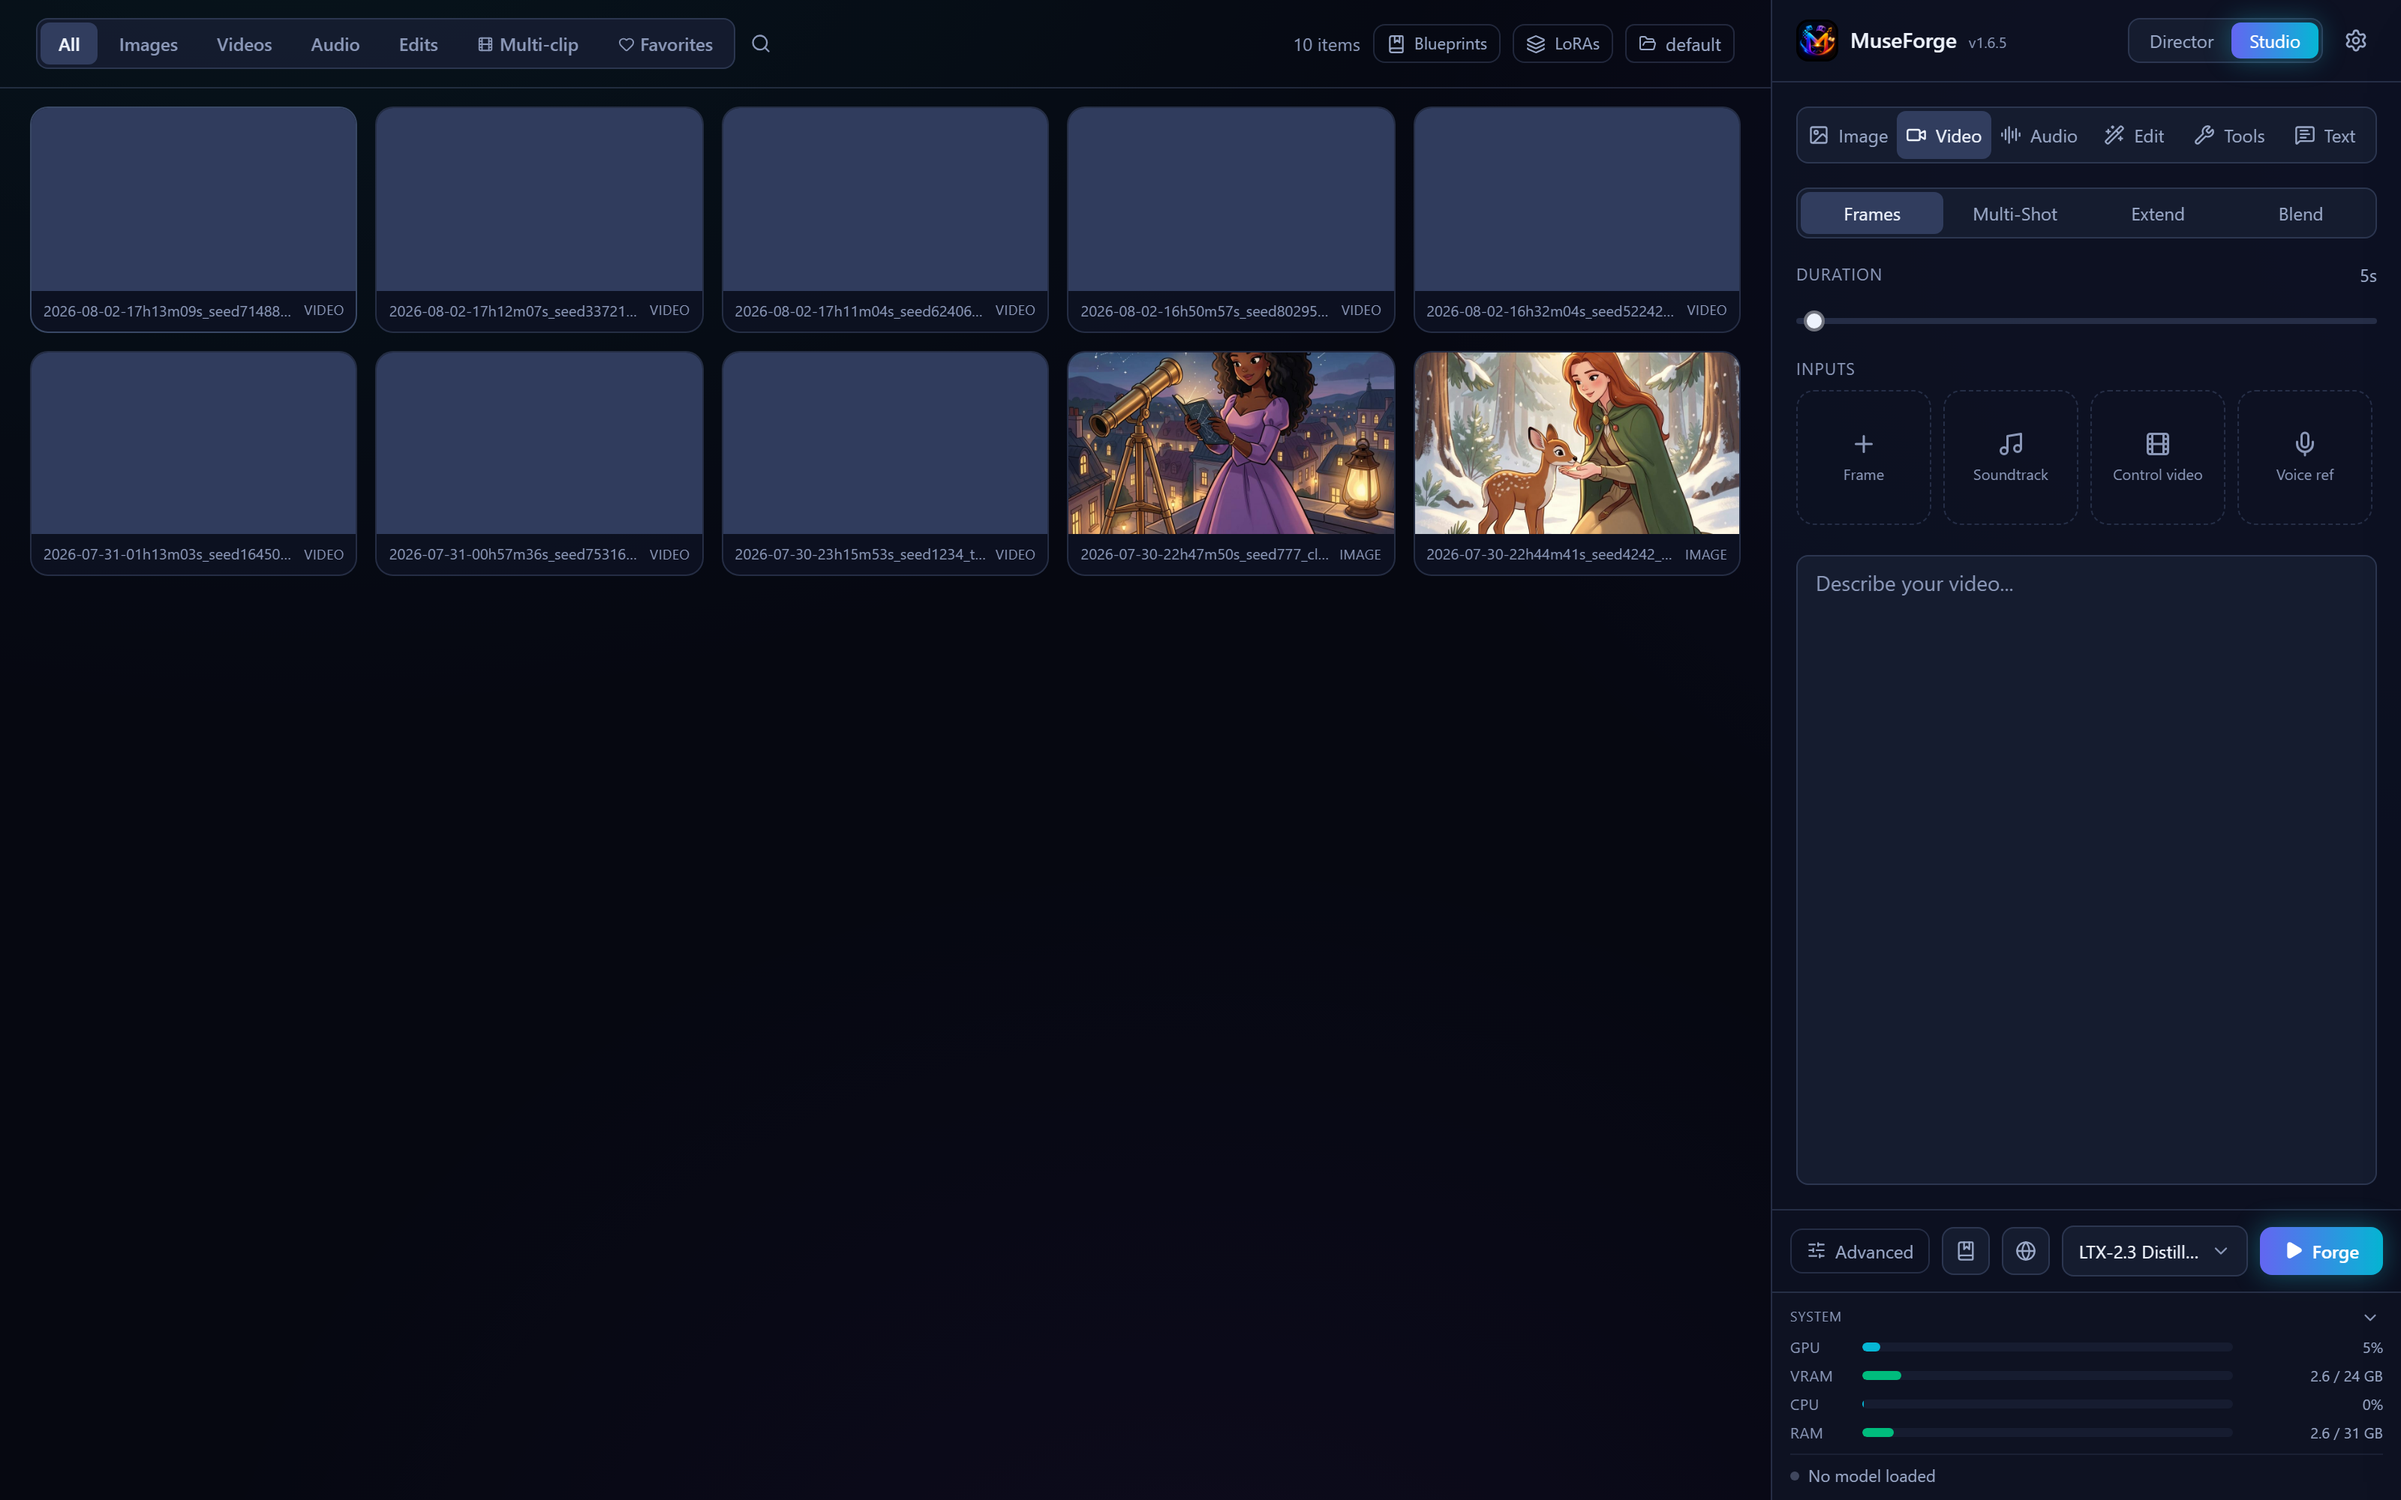
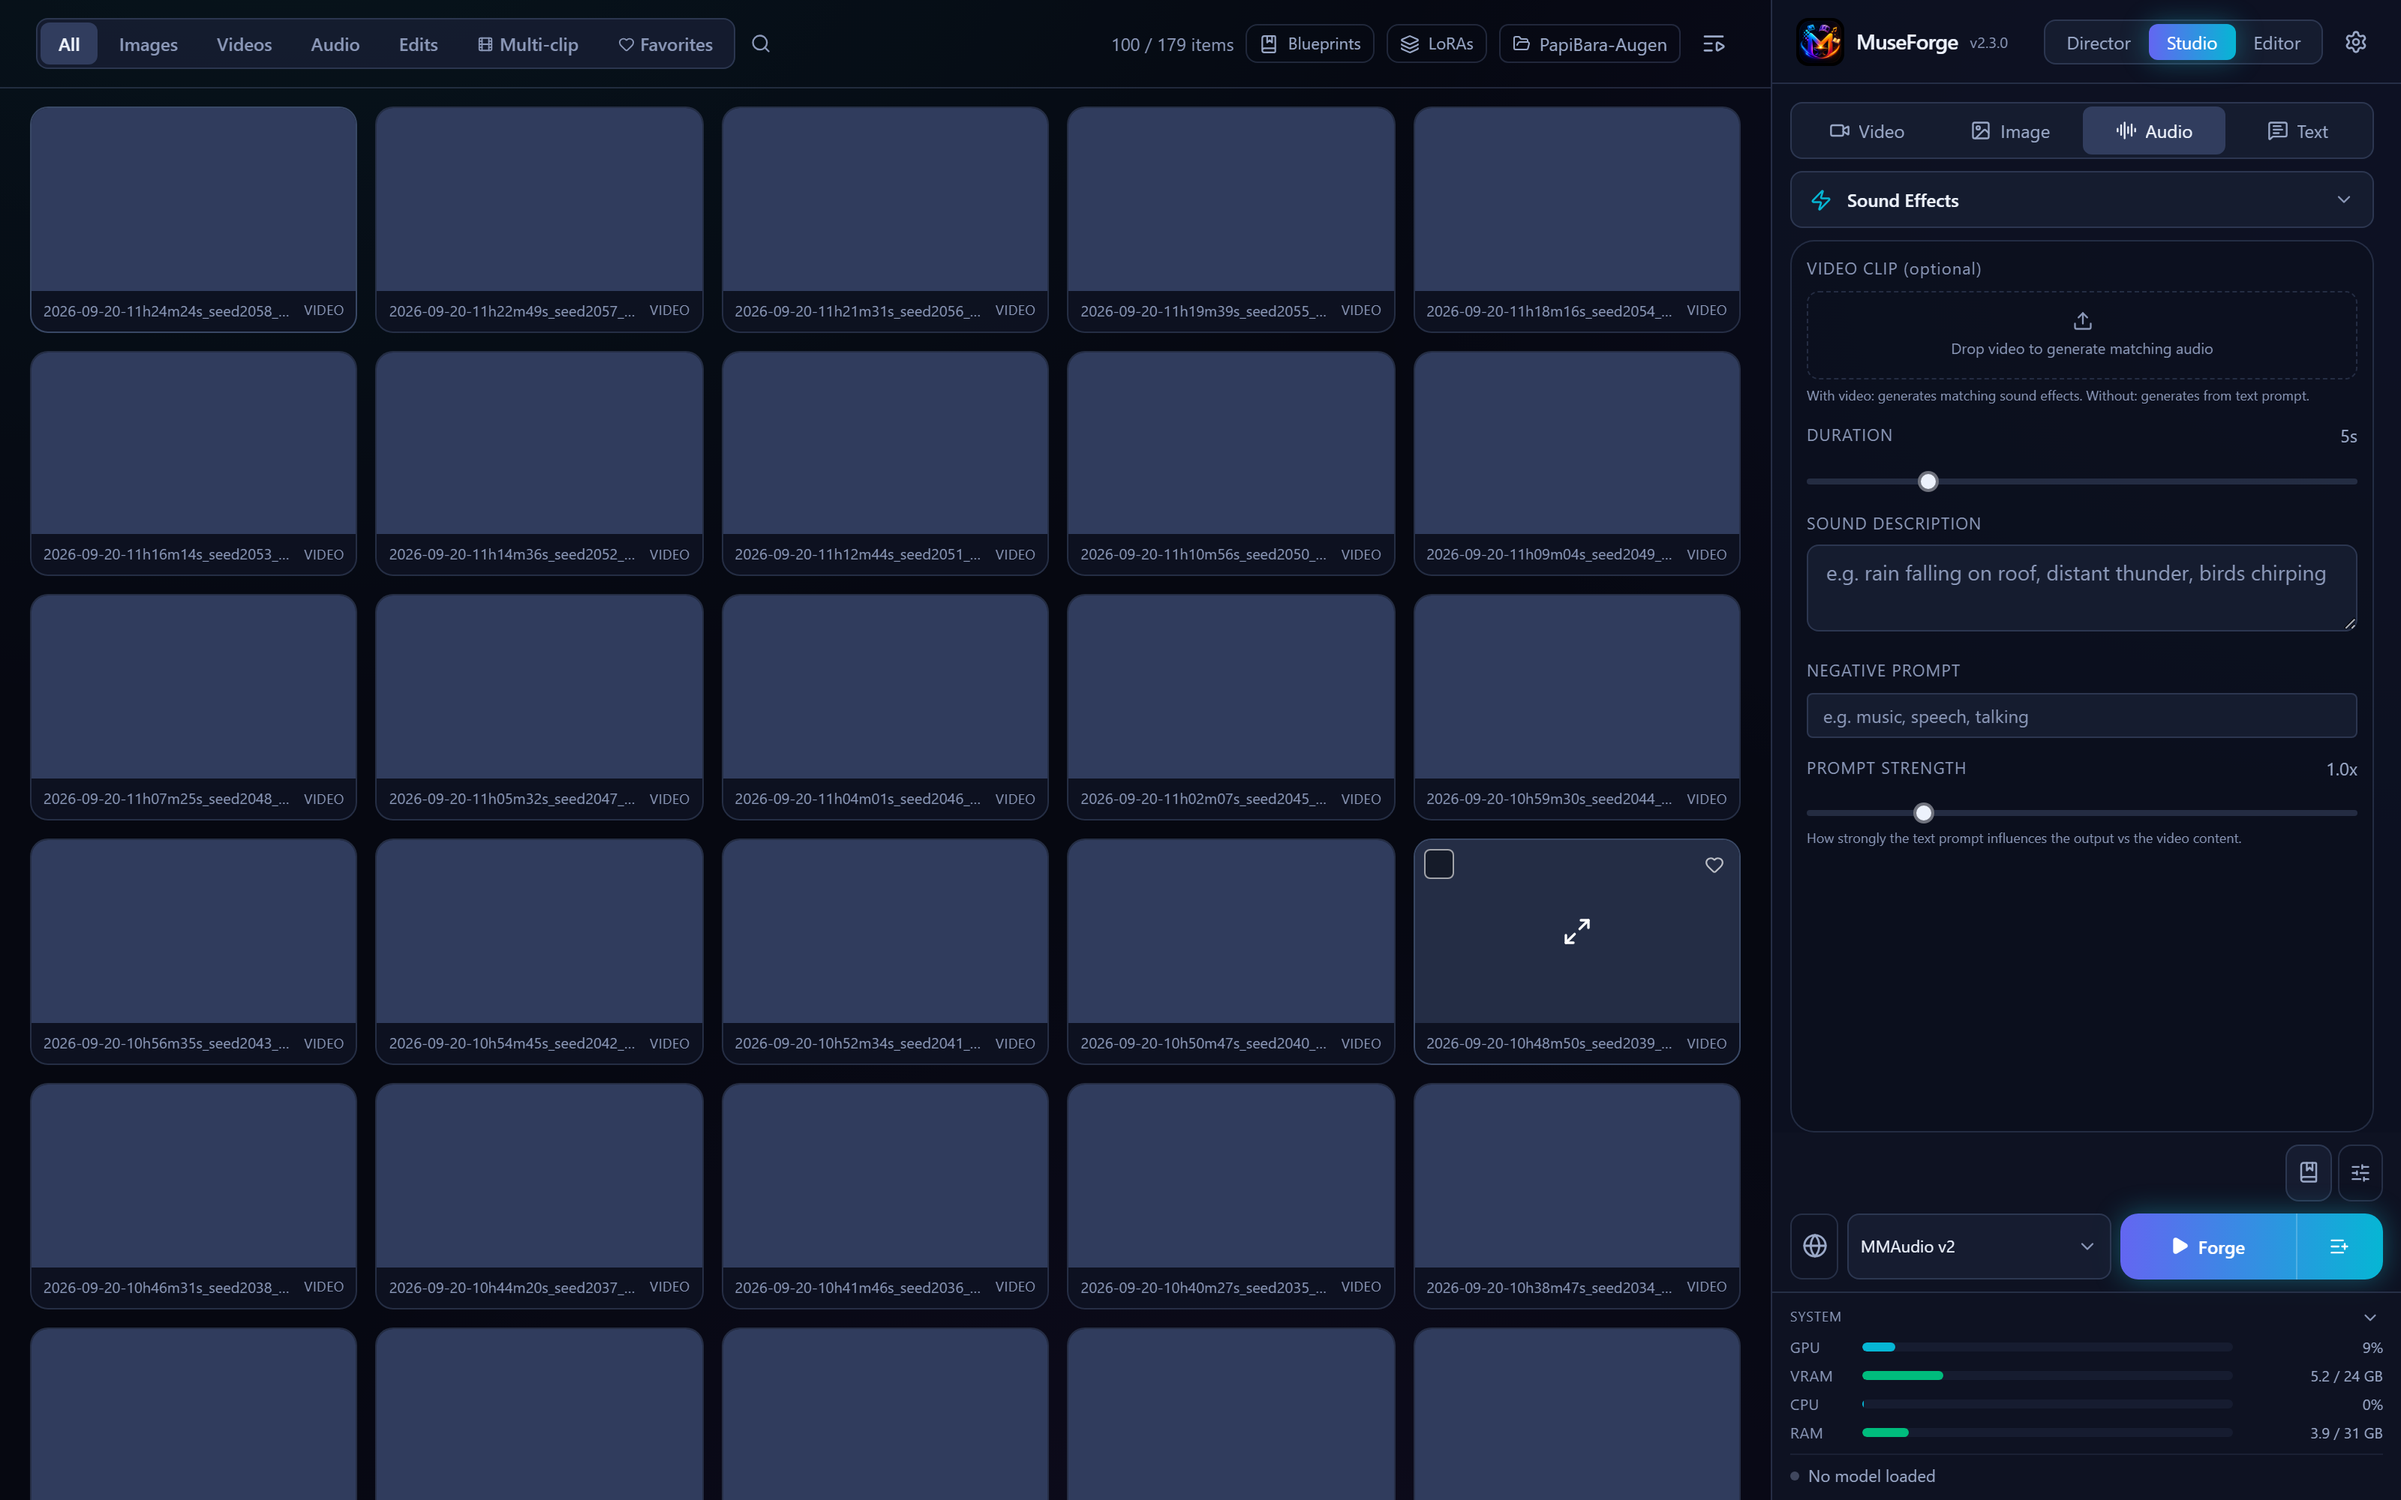
Show the brand once, from one component
The sidebar header rendered it twice: upstream's brand component, then
our own copy of icon plus name plus version right beside it. Two more
copies of that same markup sat in App.tsx and the mobile header.

Pointing the shared component at our icon and deleting the three
hand-rolled copies fixes the duplicate and the Editor panels in one go —
they render the same component, so they were showing upstream's artwork.
The component keeps its upstream name: four files import it, and renaming
an identifier only buys a conflict in each of them at the next merge.

Verified in a screenshot of the running app: one logo, one name, one
version.

diff --git a/ui/src/components/Sidebar/Sidebar.tsx b/ui/src/components/Sidebar/Sidebar.tsx
@@ -54,7 +54,6 @@ function inputRevealBounds(input: HTMLElement) {
 }
 
 export function Sidebar() {
-  const appVersion = useStore(s => s.systemConfig?.app_version)
   const toggleSettings = useStore(s => s.toggleSettings)
   const generationMode = useStore(s => s.generationMode)
   const imageMode = useStore(s => s.params.image_mode)
@@ -344,11 +343,7 @@ export function Sidebar() {
           className={`maestro-sidebar fixed top-0 h-dvh w-[380px] max-w-[94vw] bg-bg-secondary border-r border-border z-50 flex flex-col transition-[left] duration-300 ease-in-out ${sidebarOpen ? 'left-0' : '-left-full'}`}>
           {/* Header */}
           <div className="shrink-0 px-4 py-3 border-b border-border flex items-center justify-between">
-            <div className="flex items-center gap-2">
-              <img src="/museforge-icon.png" alt="" className="w-7 h-7 rounded-lg" />
-              <span className="font-semibold text-sm">MuseForge</span>
-              {appVersion && <span className="text-[10px] text-text-muted font-normal mt-0.5">v{appVersion}</span>}
-            </div>
+            <MaestroBrand compact />
             <div className="flex items-center gap-1.5">
               <AppModeToggle size="sm" />
               <button
@@ -372,11 +367,6 @@ export function Sidebar() {
       {/* Header */}
       <div className="flex h-14 shrink-0 items-center justify-between border-b border-border px-4">
         <MaestroBrand />
-        <div className="flex items-center gap-2">
-          <img src="/museforge-icon.png" alt="" className="w-7 h-7 rounded-lg" />
-          <span className="font-semibold text-sm">MuseForge</span>
-              {appVersion && <span className="text-[10px] text-text-muted font-normal mt-0.5">v{appVersion}</span>}
-        </div>
         <div className="flex items-center gap-2">
           <AppModeToggle />
           <button

diff --git a/ui/src/App.tsx b/ui/src/App.tsx
@@ -13,6 +13,7 @@ import { PreflightBanner } from './components/PreflightBanner'
 import { WelcomeModal } from './components/WelcomeModal'
 import { ActivityPanel } from './components/ActivityPanel'
 import { RecipesOverlay } from './components/Recipes/RecipesOverlay'
+import { MaestroBrand } from './components/AppModeNavigation'
 import { GlobalQueuePopover } from './components/GlobalQueuePopover'
 import { NotificationCoordinator } from './components/NotificationCoordinator'
 import { NotificationToastHost } from './components/NotificationToastHost'
@@ -22,7 +23,6 @@ import { useStore } from './stores/useStore'
 import { useIsMobile } from './lib/useIsMobile'
 
 function App() {
-  const appVersion = useStore(s => s.systemConfig?.app_version)
   const loadModels = useStore(s => s.loadModels)
   const loadOutputs = useStore(s => s.loadOutputs)
   const loadWorkspaces = useStore(s => s.loadWorkspaces)
@@ -70,15 +70,7 @@ function App() {
           >
             <Menu size={20} />
           </button>
-          <div className="flex items-center gap-2">
-            <img
-              src="/museforge-icon.png"
-              alt=""
-              className="w-7 h-7 rounded-lg"
-            />
-            <span className="font-semibold text-sm">MuseForge</span>
-            {appVersion && <span className="text-[10px] text-text-muted font-normal mt-0.5">v{appVersion}</span>}
-          </div>
+          <MaestroBrand />
           <div className="justify-self-end flex items-center gap-0.5">
             <GlobalQueuePopover iconSize={20} panelAlign="header-edge" />
             <button

diff --git a/ui/src/components/AppModeNavigation.tsx b/ui/src/components/AppModeNavigation.tsx
@@ -19,7 +19,7 @@ export function MaestroBrand({
   return (
     <div className={`flex shrink-0 items-center gap-2 ${className}`}>
       <img
-        src="/maestro-home-icon-orange.png"
+        src="/museforge-icon.png"
         alt=""
         className={`${compact ? 'h-7 w-7 rounded-[7px]' : 'h-8 w-8 rounded-lg'} shrink-0`}
       />
